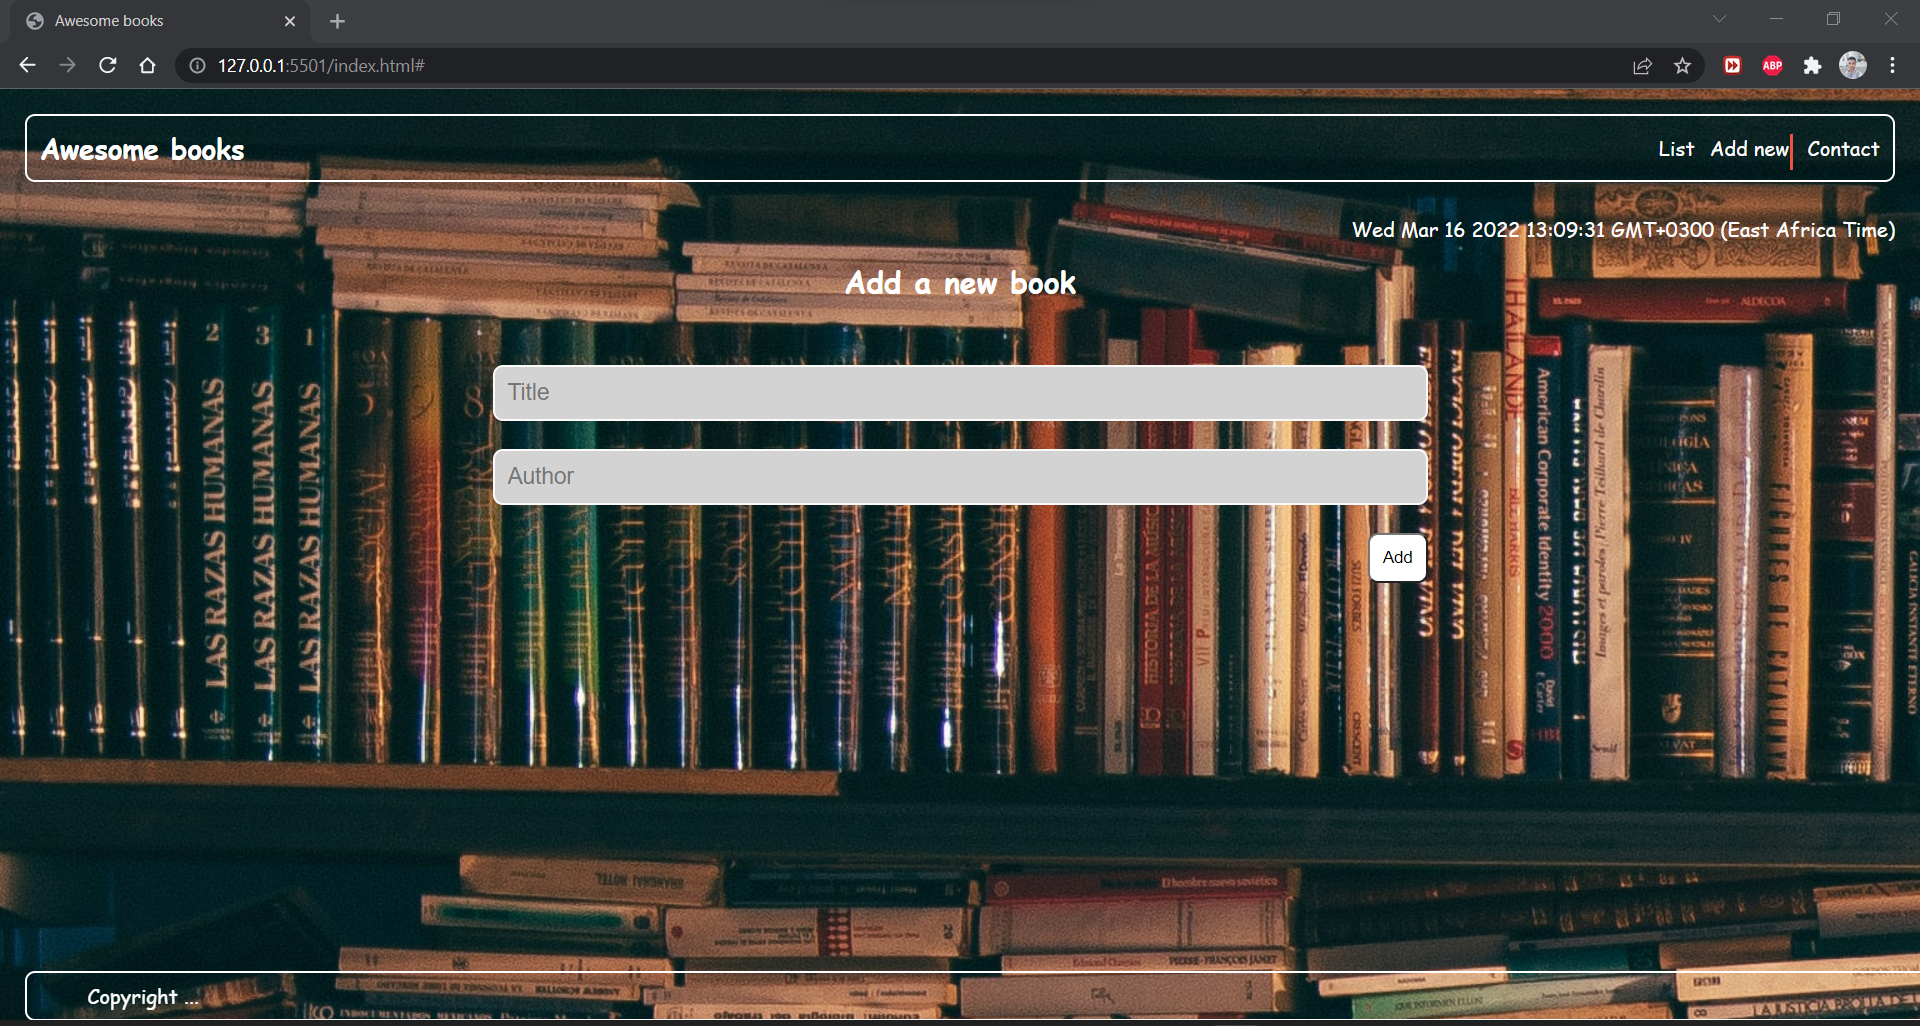
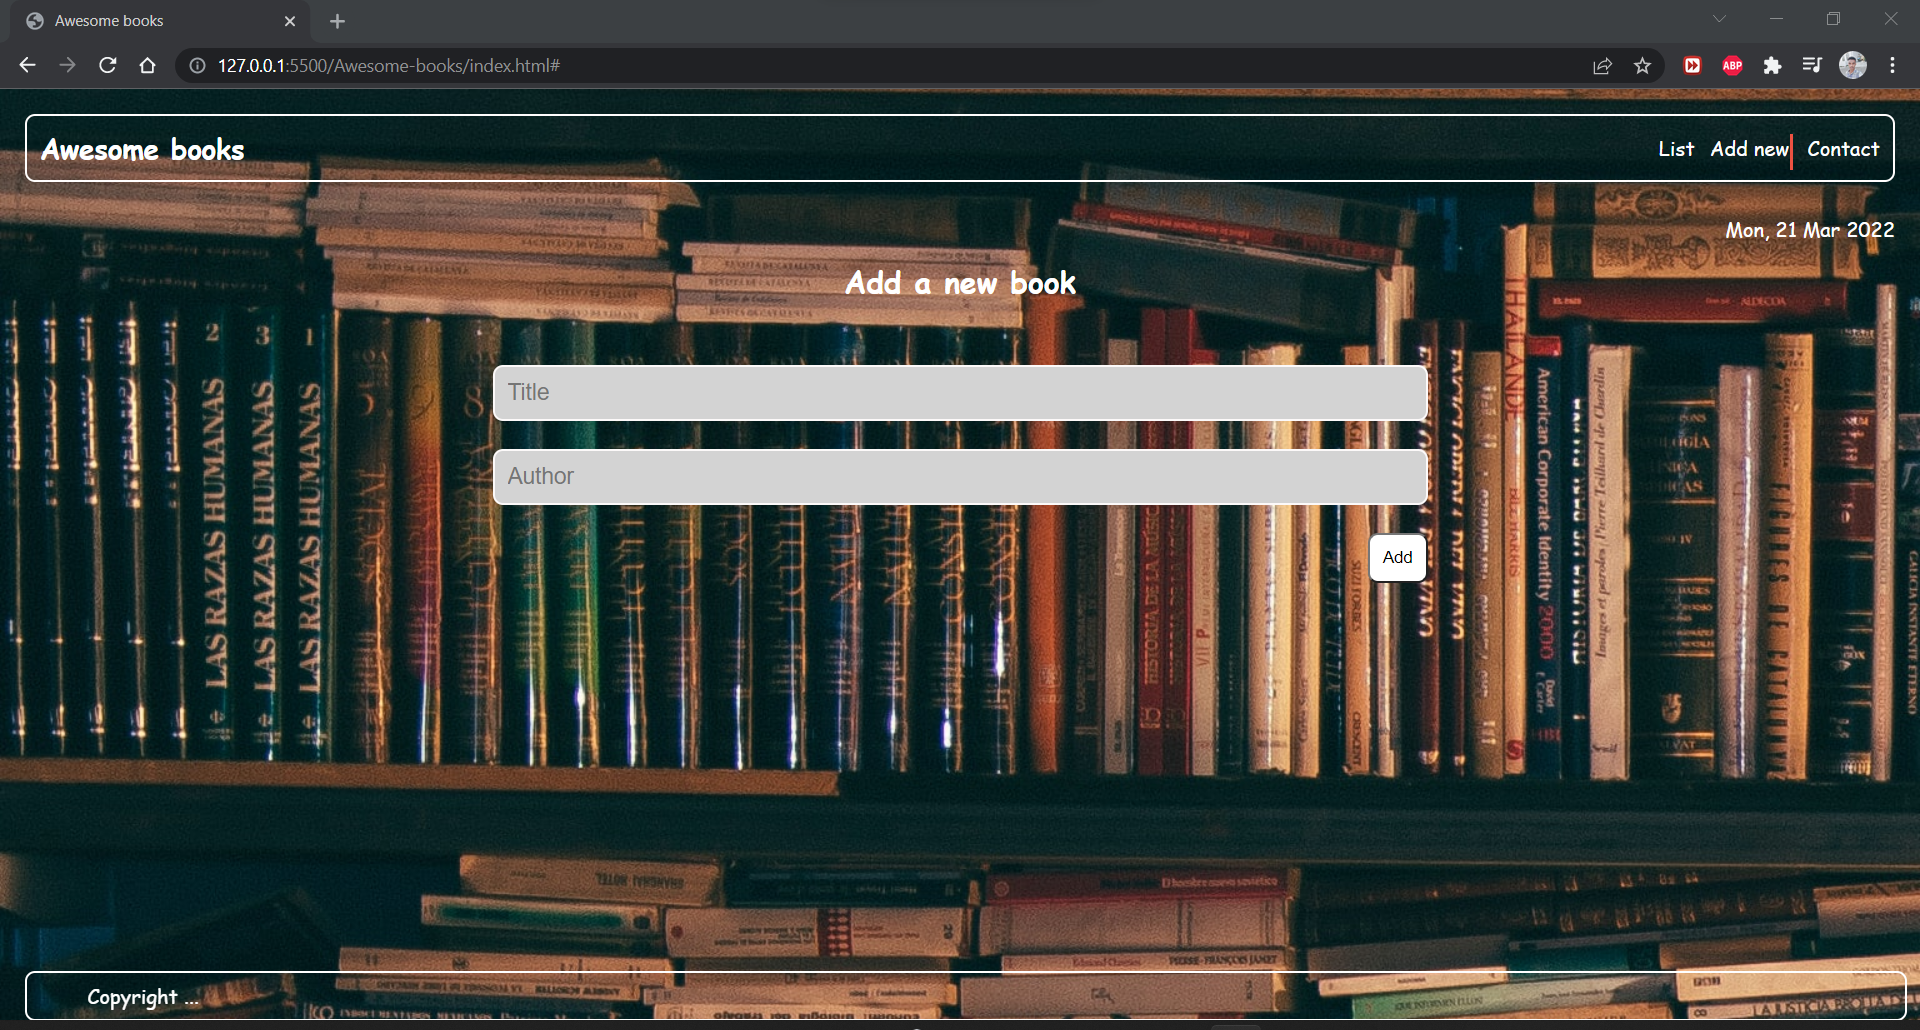
Es6 modules used

diff --git a/index.js b/index.js
@@ -1,70 +1,18 @@
-const listElm = document.querySelector('.books-list');
-const form = document.querySelector('.form');
-
-class Books {
-  constructor() {
-    this.list = localStorage.getItem('booksList')
-      ? JSON.parse(localStorage.getItem('booksList'))
-      : [];
-  }
-
-  addBook(book) {
-    this.list.push(book);
-
-    localStorage.setItem('booksList', JSON.stringify(this.list));
-  }
-
-  removeBook(title) {
-    this.list = this.list.filter((currentBook) => currentBook.title !== title);
-    localStorage.setItem('booksList', JSON.stringify(this.list));
-  }
-}
-
-const booksList = new Books();
-
-function renderBooks() {
-  listElm.innerHTML = '';
-
-  booksList.list.forEach((book) => {
-    listElm.innerHTML += `
-      <li>
-          <p><span class="title">${book.title}</span> by ${book.author}</p>
-          <button class="remBtn">Remove</button>        
-      </li>
-    `;
-  });
-
-  const removeBtns = document.querySelectorAll('li button');
-  removeBtns.forEach((btn) => {
-    btn.addEventListener('click', () => {
-      const elem = btn.parentNode;
-      const bookTitle = elem.querySelector('.title').textContent;
-
-      booksList.removeBook(bookTitle);
-      elem.remove();
-    });
-  });
-}
-
+import selector from "./modules/selectors.js";
+import navigator from "./modules/spa-manager.js";
+import Books from "./modules/bookclass.js";
+import DateNowString from "./modules/luxon.js";
+import {renderBooks,booksList} from "./modules/renderbooks.js";
+selector.timeanddate.textContent = DateNowString();
 renderBooks();
-
-form.addEventListener('submit', (e) => {
+selector.form.addEventListener("submit", (e) => {
+  console.log("Submit clicked");
   e.preventDefault();
-
-  const title = form.title.value.trim();
-  const author = form.author.value.trim();
-
-  form.title.value = '';
-  form.author.value = '';
-  // document.getElementById('show-book').style.cssText = 'display: block';
+  const title = selector.form.title.value.trim();
+  const author = selector.form.author.value.trim();
+  selector.form.title.value = "";
+  selector.form.author.value = "";
   booksList.addBook({ title, author });
   renderBooks();
 });
-function clean1() {
-  if (booksList.list.length === 0) {
-    document.getElementById('show-book').style.cssText = 'display: none';
-  }
-}
-window.addEventListener('DOMContentLoaded', () => {
-  clean1();
-});
+

diff --git a/index.html b/index.html
@@ -4,7 +4,7 @@
     <meta charset="UTF-8">
     <meta http-equiv="X-UA-Compatible" content="IE=edge">
     <meta name="viewport" content="width=device-width, initial-scale=1.0">
-    <link rel="stylesheet" href="style.css">
+    <link rel="stylesheet" href="index.css">
     <link href="https://fonts.googleapis.com/css2?family=Inter:wght@300&display=swap" rel="stylesheet">
     <title>Awesome books</title>
 </head>
@@ -25,7 +25,7 @@
       <ul class="books-list"></ul>
   </section>
   
-    <section class="form-container">
+    <section class="form-container" id="add-book">
       <h2>Add a new book</h2>        
       <form action="#" class="form">
           <input type="text" id="title" placeholder="Title" required><br><br>
@@ -51,7 +51,6 @@
     <p>Copyright  ...</p>
   </footer>
 
-   <script src="./index.js"></script>
-   <script src="./spa-manager.js"></script>
+   <script type="module" src="./index.js"></script>
 </body>
 </html>

diff --git a/modules/renderbooks.js b/modules/renderbooks.js
@@ -1,0 +1,25 @@
+import selector from "./selectors.js";
+import Books from "./bookclass.js";
+const booksList = new Books();
+let renderBooks = () => {
+    selector.listElm.innerHTML = "";
+  
+    booksList.list.forEach((book) => {
+      selector.listElm.innerHTML += `
+        <li>
+            <p><span class="title">${book.title}</span> by ${book.author}</p>
+            <button class="remBtn">Remove</button>        
+        </li>
+      `;
+    });
+    const removeBtns = document.querySelectorAll('li button');
+    removeBtns.forEach((btn) => {
+      btn.addEventListener('click', () => {
+        const elem = btn.parentNode;
+        const bookTitle = elem.querySelector('.title').textContent;
+        booksList.removeBook(bookTitle);
+        elem.remove();
+      });
+    });
+  }
+  export {renderBooks,booksList};

diff --git a/modules/spa-manager.js b/modules/spa-manager.js
@@ -1,13 +1,12 @@
-const timePara = new Date();
-document.querySelector('.date').textContent = timePara;
+import selector from "./selectors.js";
 
-const links = document.querySelectorAll('.links a');
 
-links.forEach((link) => {
+
+selector.links.forEach((link) => {
   link.addEventListener('click', () => {
     if (link.classList.contains('active')) return;
 
-    links.forEach((a) => {
+    selector.links.forEach((a) => {
       a.classList.remove('active');
     });
 
@@ -18,3 +17,4 @@ links.forEach((link) => {
     document.querySelector(`.${link.id}`).classList.add('flex');
   });
 });
+export default selector.links;

diff --git a/modules/bookclass.js b/modules/bookclass.js
@@ -1,0 +1,15 @@
+export default class Books {
+    constructor() {
+      this.list = localStorage.getItem('booksList')
+        ? JSON.parse(localStorage.getItem('booksList'))
+        : [];
+    }
+    removeBook(title) {
+      this.list = this.list.filter((currentBook) => currentBook.title !== title);
+      localStorage.setItem('booksList', JSON.stringify(this.list));
+    }
+    addBook  (book) {
+        this.list.push(book);
+        localStorage.setItem('booksList', JSON.stringify(this.list));
+      }
+  }

diff --git a/modules/selectors.js b/modules/selectors.js
@@ -1,0 +1,11 @@
+const listElm = document.querySelector('.books-list');
+const form = document.querySelector('.form');
+const links = document.querySelectorAll('.links a');
+const timeanddate = document.querySelector('.date');
+const selector = {
+    listElm,
+    form,
+    links,
+    timeanddate,
+}
+export default selector;

diff --git a/modules/luxon.js b/modules/luxon.js
@@ -1,0 +1,5 @@
+const DateNowString = () => {
+    const date = new Date(Date.now());
+    return `${date.toUTCString().slice(0, 16)}`;
+  };
+  export default DateNowString;

diff --git a/index.css b/index.css
@@ -158,7 +158,7 @@ footer {
   position: fixed;
   left: 0;
   bottom: 0;
-  width: 100%;
+  width: 98%;
   color: white;
   border: 2px white solid;
   height: 40px;
